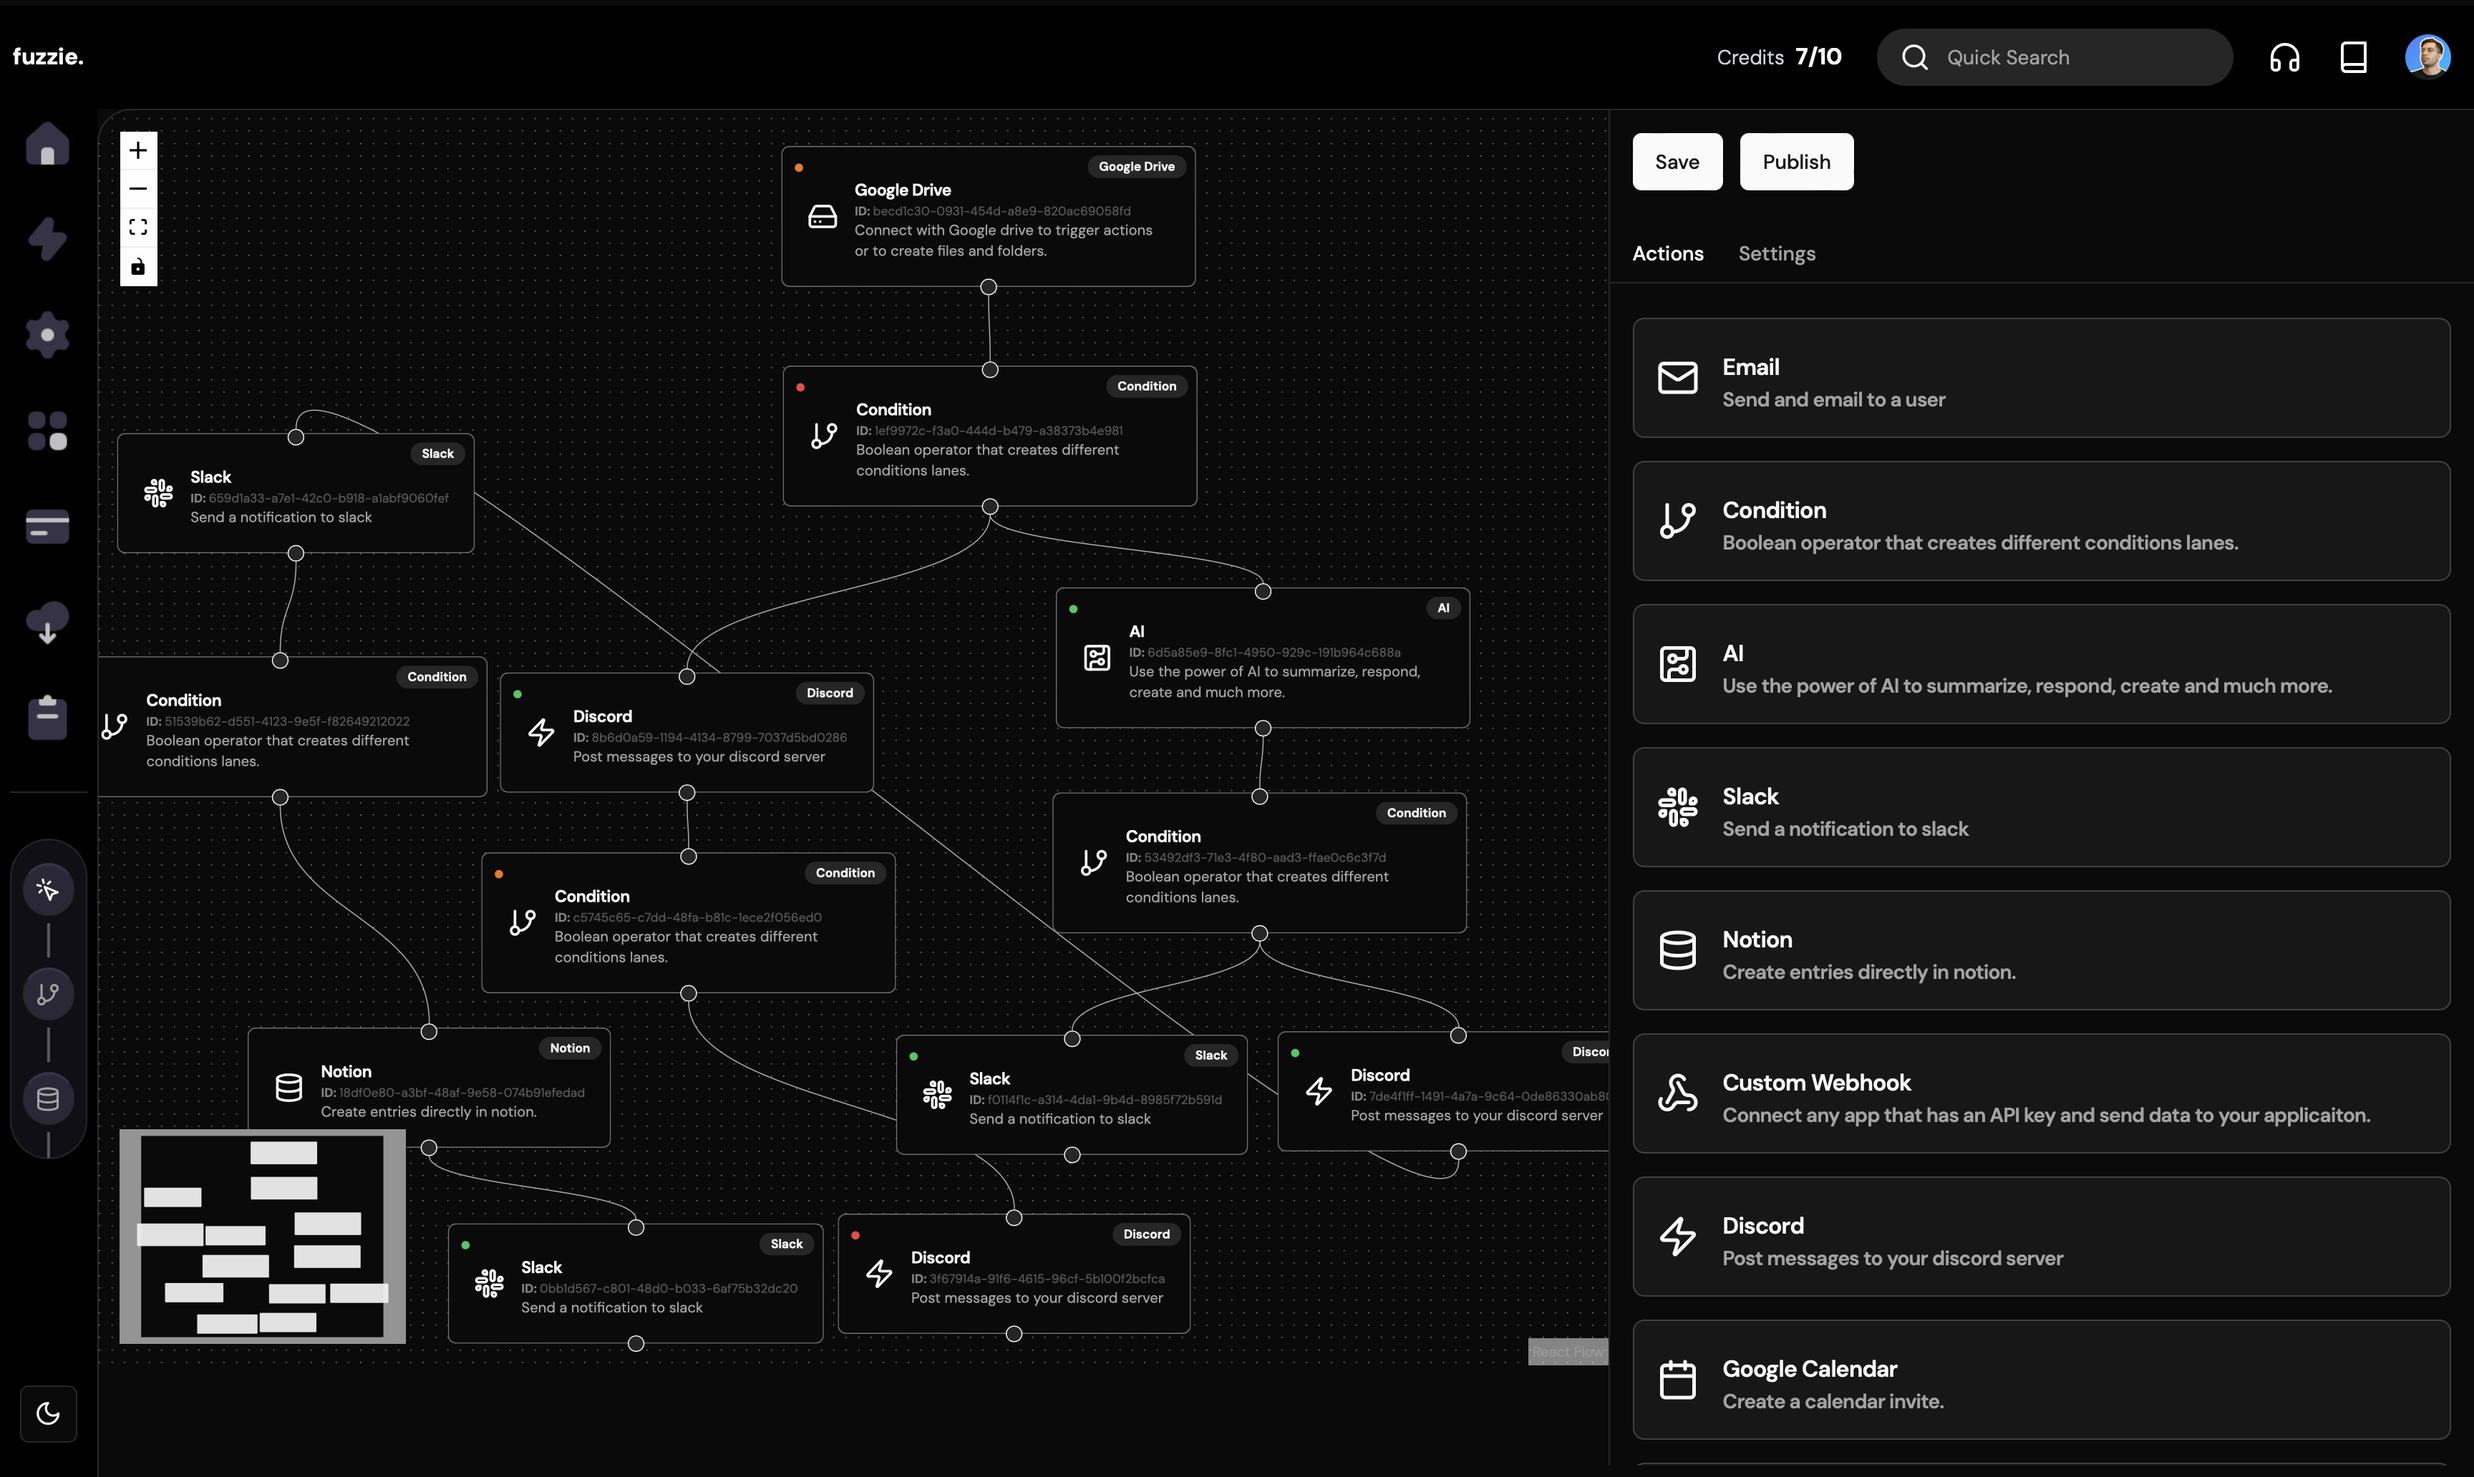
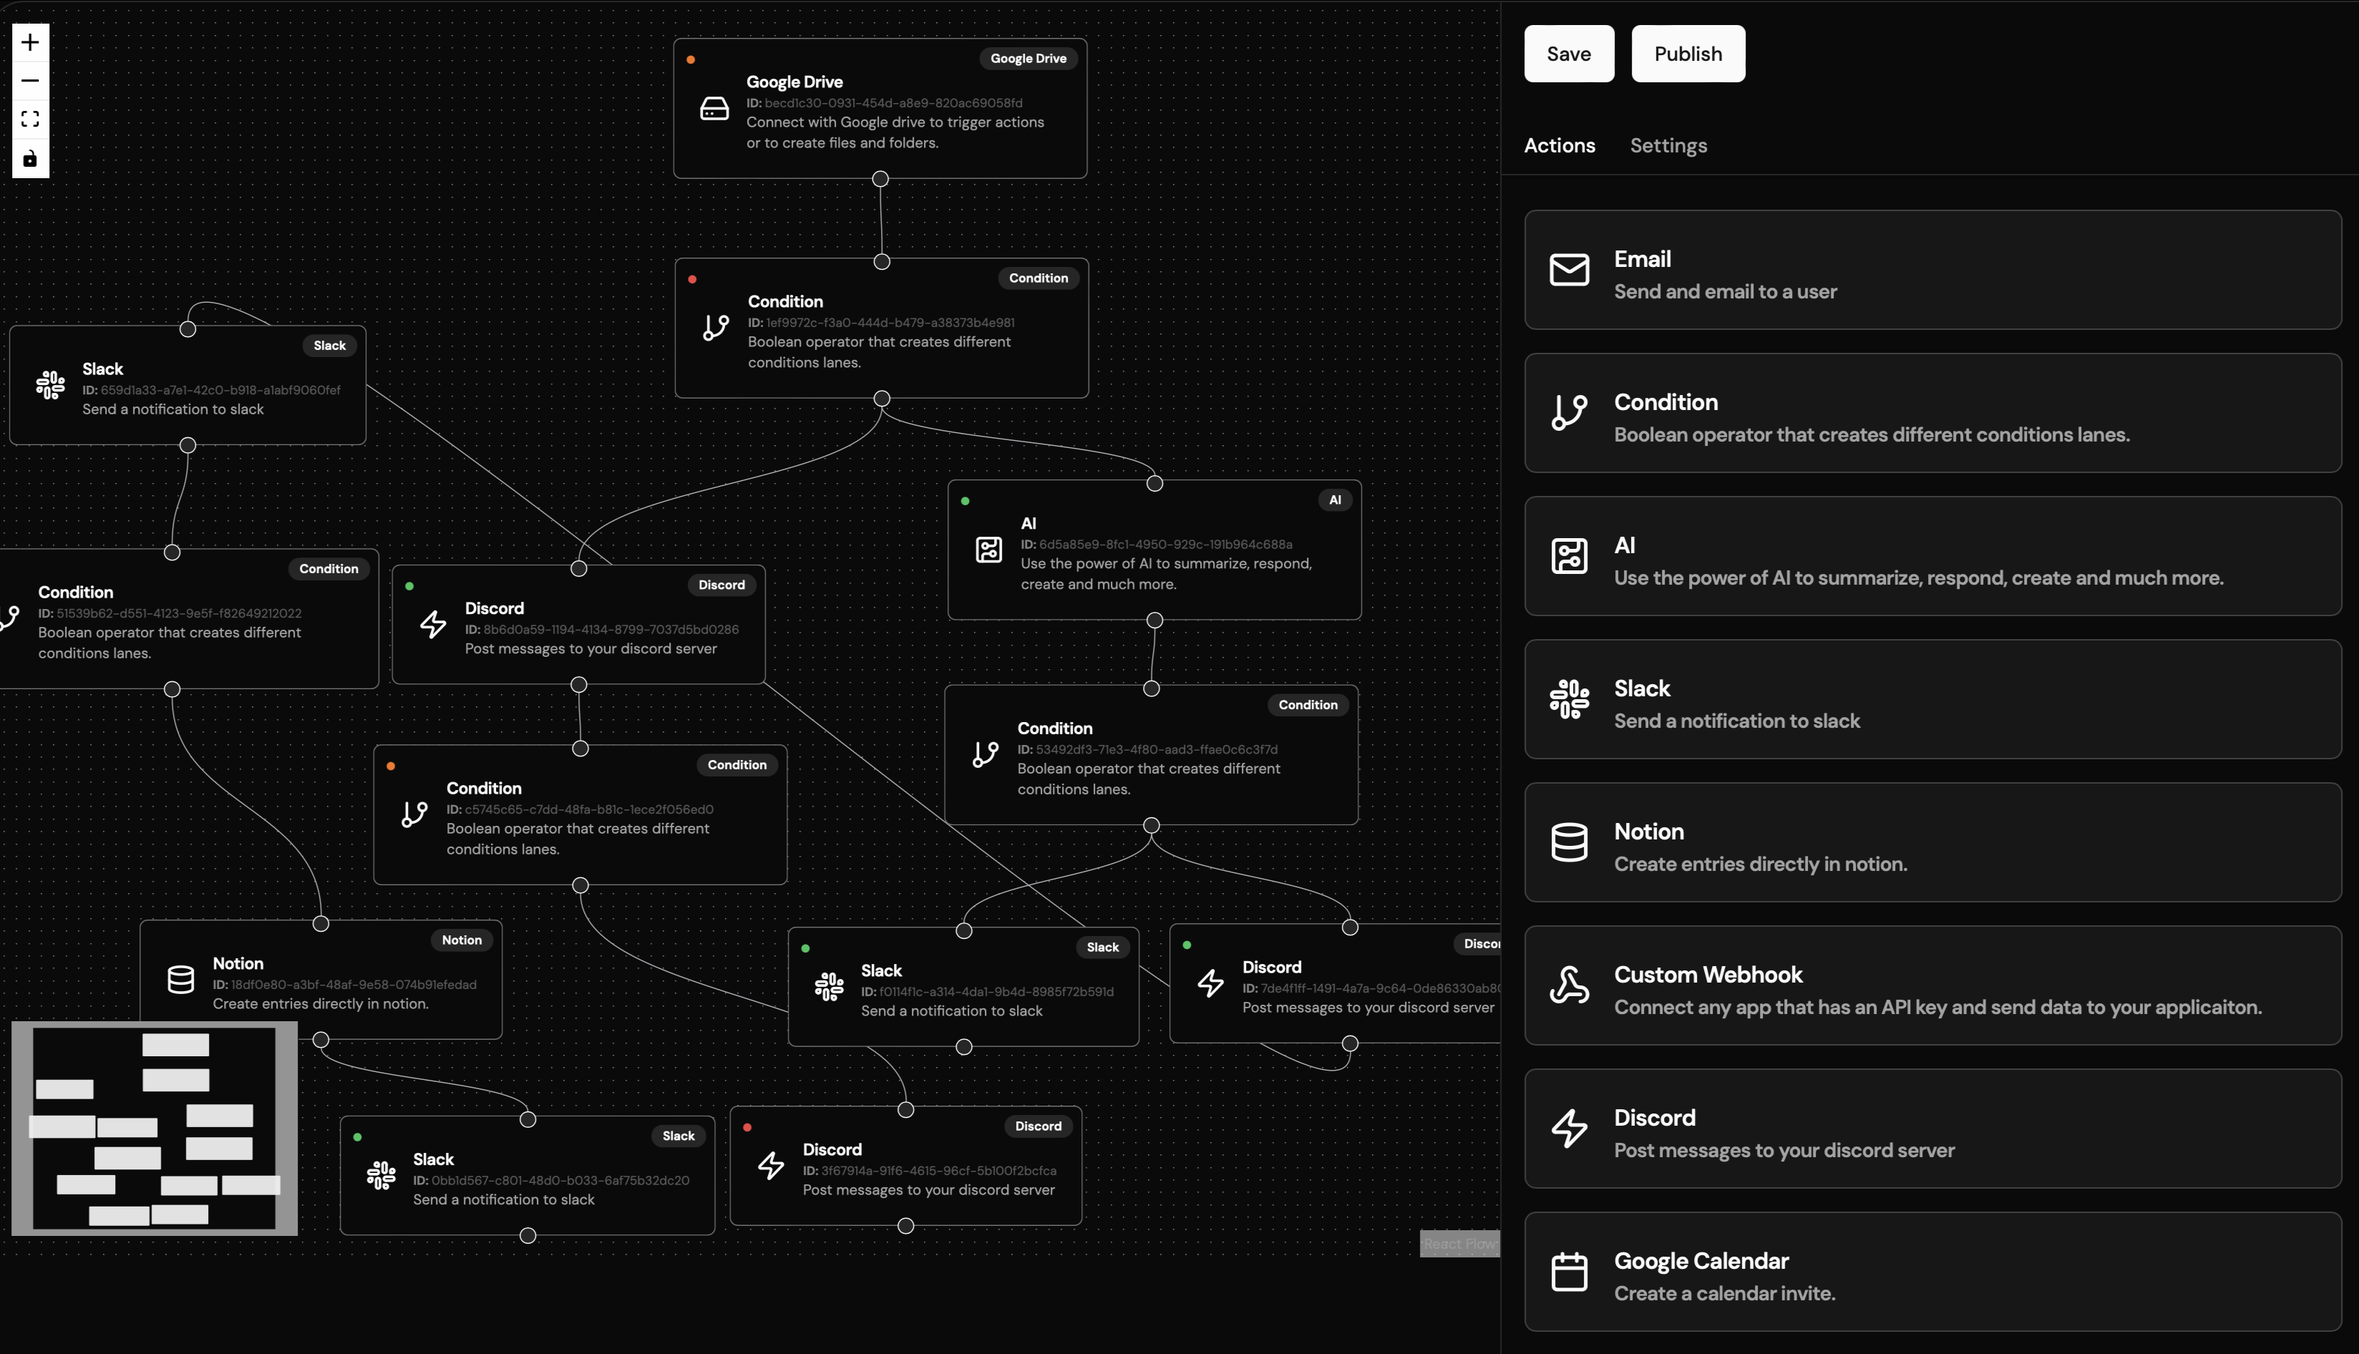
Final V3

diff --git a/src/app/page.tsx b/src/app/page.tsx
@@ -9,6 +9,7 @@ import { HeroParallax } from "@/components/global/connect-parallax";
 import { LampComponent } from "@/components/global/lamp";
 import { CardContainer, CardItem,CardBody } from "@/components/global/3d-card";
 import { WavyBackground } from "@/components/global/wavy-background";
+import Link from "next/link";
 export default function Home() {
   return (
     <main  >
@@ -28,29 +29,12 @@ export default function Home() {
                   className="p-8 mt-8 md:mb-0 text-2xl w-full sm:w-fit border-t-2 rounded-full border-[#4D4D4D] bg-[#1F1F1F] hover:bg-white group transition-all flex items-center justify-center gap-4 hover:shadow-xl hover:shadow-neutral-500 duration-500"
                 >
                   <span className="bg-clip-text text-transparent bg-gradient-to-r from-neutral-500 to-neutral-600  md:text-center font-sans group-hover:bg-gradient-to-r group-hover:from-black goup-hover:to-black">
-                    Start For Free Today
+                    <Link href="/workflows">Start For Free Today</Link>
                   </span>
                 </Button>
               </div>
     </WavyBackground>
 
-          {/* <ContainerScroll
-            titleComponent={
-              <div className="flex items-center justify-center flex-col">
-                <Button
-                  size={'lg'}
-                  className="p-8 mb-8 md:mb-0 text-2xl w-full sm:w-fit border-t-2 rounded-full border-[#4D4D4D] bg-[#1F1F1F] hover:bg-white group transition-all flex items-center justify-center gap-4 hover:shadow-xl hover:shadow-neutral-500 duration-500"
-                >
-                  <span className="bg-clip-text text-transparent bg-gradient-to-r from-neutral-500 to-neutral-600  md:text-center font-sans group-hover:bg-gradient-to-r group-hover:from-black goup-hover:to-black">
-                    Start For Free Today
-                  </span>
-                </Button>
-                <h1 className="text-5xl md:text-8xl  bg-clip-text text-transparent bg-gradient-to-b from-white to-neutral-600 font-sans font-bold">
-                  Automate Your Work With FlowState
-                </h1>
-              </div>
-            }
-          /> */}
         </div>
       </section>
 
@@ -65,7 +49,7 @@ export default function Home() {
         </section>    
         <section className="mt-[-500px]">
           <LampComponent />
-          <div className="flex flex-wrap items-center justify-center flex-col md:flex-row gap-8 -mt-72">
+          <div className="flex flex-wrap items-center justify-center flex-col md:flex-row gap-8 -mt-72 pb-20">
            <CardContainer  className="inter-var">
             <CardBody className="bg-gray-50 relative group/card dark:hover:shadow-2xl dark:hover:shadow-neutral-500/[0.1]
             dark:bg-black dark:border-white/[0.2] border-black/[0.1] w-full md: !w-[350px] h-auto rounded-xl p-6 border">
@@ -91,12 +75,12 @@ export default function Home() {
             <CardItem translateZ={20}
             as="button"
             className="px-4 py-2 rounded-xl text-xs font-normal dark:text-white">
-              Try now →
+             <Link href='/billing'> Try now →</Link>
             </CardItem>
             <CardItem translateZ={20}
             as="button"
             className="px-4 py-2 rounded-xl bg-black dark:bg-white dark:text-black text-white text-xs font-bold ">
-              Get Started Now
+              <Link href='/billing'>  Get Started Now </Link>
             </CardItem>
             </div>
             </CardBody>
@@ -126,12 +110,12 @@ export default function Home() {
             <CardItem translateZ={20}
             as="button"
             className="px-4 py-2 rounded-xl text-xs font-normal dark:text-white">
-              Try now →
+             <Link href='/billing'> Try now →</Link>
             </CardItem>
             <CardItem translateZ={20}
             as="button"
             className="px-4 py-2 rounded-xl bg-black dark:bg-white dark:text-black text-white text-xs font-bold ">
-              Get Started Now
+              <Link href='/billing'>  Get Started Now </Link>
             </CardItem>
             </div>
             </CardBody>
@@ -161,12 +145,12 @@ export default function Home() {
             <CardItem translateZ={20}
             as="button"
             className="px-4 py-2 rounded-xl text-xs font-normal dark:text-white">
-              Try now →
+             <Link href='/billing'> Try now →</Link>
             </CardItem>
             <CardItem translateZ={20}
             as="button"
             className="px-4 py-2 rounded-xl bg-black dark:bg-white dark:text-black text-white text-xs font-bold ">
-              Get Started Now
+              <Link href='/billing'>  Get Started Now </Link>
             </CardItem>
             </div>
             </CardBody>

diff --git a/src/lib/constant.tsx b/src/lib/constant.tsx
@@ -8,47 +8,57 @@ import Workflows from "@/components/icons/workflows"
 import { Connection } from "./types"
 
 
-export const clients = [...new Array(10)].map((client, index) => ({
-  href: `/${index + 1}.png`,
-}))
+export const clients =  [
+  "Effortlessly Connected",
+  "Seamlessly Integrated",
+  "Productivity Boosting",
+  "Streamlined Collaboration",
+  "Smart Automation",
+  "Task Mastery",
+  "Efficient Workflow",
+  "Unified Workspace",
+  "Instant Organization",
+  "Ultimate Efficiency",
+  "Simplified Management",
+  "Dynamic Integration"]
 
 export const products = [
   {
-    title: 'Moonbeam',
-    link: 'https://gomoonbeam.com',
-    thumbnail: '/p1.png',
+    title: 'Discord',
+    link: 'https://discord.com/',
+    thumbnail: '/DPara.png',
   },
   {
-    title: 'Cursor',
-    link: 'https://cursor.so',
-    thumbnail: '/p2.png',
+    title: 'Connections',
+    link: '/connections',
+    thumbnail: '/FCPara.png',
   },
   {
-    title: 'Rogue',
-    link: 'https://userogue.com',
-    thumbnail: '/p3.png',
-  },
-
-  {
-    title: 'Editorially',
-    link: 'https://editorially.org',
-    thumbnail: '/p4.png',
-  },
-  {
-    title: 'Editrix AI',
-    link: 'https://editrix.ai',
-    thumbnail: '/p5.png',
-  },
-  {
-    title: 'Pixel Perfect',
-    link: 'https://app.pixelperfect.quest',
-    thumbnail: '/p6.png',
+    title: 'Notion',
+    link: 'https://www.notion.so',
+    thumbnail: '/NPara.png',
   },
 
   {
-    title: 'Algochurn',
-    link: 'https://algochurn.com',
-    thumbnail: '/p1.png',
+    title: 'Editor Canvas',
+    link: '/workflows/editor',
+    thumbnail: '/temp-banner.png',
+  },
+  {
+    title: 'Slack',
+    link: 'https://app.slack.com',
+    thumbnail: '/SPara.png',
+  },
+  {
+    title: 'Workflows',
+    link: '/workflow',
+    thumbnail: '/FWPara.png',
+  },
+
+  {
+    title: 'Billing',
+    link: '/billing',
+    thumbnail: '/FBPara.png',
   },
   {
     title: 'Aceternity UI',
@@ -56,40 +66,41 @@ export const products = [
     thumbnail: '/p2.png',
   },
   {
-    title: 'Tailwind Master Kit',
-    link: 'https://tailwindmasterkit.com',
-    thumbnail: '/p3.png',
+    title: 'Discord',
+    link: 'https://discord.com/',
+    thumbnail: '/DPara.png',
   },
   {
-    title: 'SmartBridge',
-    link: 'https://smartbridgetech.com',
-    thumbnail: '/p4.png',
+    title: 'Connections',
+    link: '/connections',
+    thumbnail: '/FCPara.png',
   },
   {
-    title: 'Renderwork Studio',
-    link: 'https://renderwork.studio',
-    thumbnail: '/p5.png',
+    title: 'Notion',
+    link: 'https://www.notion.so',
+    thumbnail: '/NPara.png',
   },
 
   {
-    title: 'Creme Digital',
-    link: 'https://cremedigital.com',
-    thumbnail: '/p6.png',
+    title: 'Editor Canvas',
+    link: '/workflows/editor',
+    thumbnail: '/temp-banner.png',
   },
   {
-    title: 'Golden Bells Academy',
-    link: 'https://goldenbellsacademy.com',
-    thumbnail: '/p1.png',
+    title: 'Slack',
+    link: 'https://app.slack.com',
+    thumbnail: '/SPara.png',
   },
   {
-    title: 'Invoker Labs',
-    link: 'https://invoker.lol',
-    thumbnail: '/p2.png',
+    title: 'Workflows',
+    link: '/workflow',
+    thumbnail: '/FWPara.png',
   },
+
   {
-    title: 'E Free Invoice',
-    link: 'https://efreeinvoice.com',
-    thumbnail: '/p3.png',
+    title: 'Billing',
+    link: '/billing',
+    thumbnail: '/FBPara.png',
   },
 ]
 

diff --git a/src/components/global/connect-parallax.tsx b/src/components/global/connect-parallax.tsx
@@ -105,12 +105,10 @@ export const Header = () => {
   return (
     <div className="max-w-7xl relative mx-auto py-20 md:py-40 px-4 w-full  left-0 top-0">
       <h1 className="text-2xl md:text-7xl font-bold dark:text-white">
-        The Ultimate <br /> development studio
+        Automated Harmony<br />brought to your workflow
       </h1>
       <p className="max-w-2xl text-base md:text-xl mt-8 dark:text-neutral-200">
-        We build beautiful products with the latest technologies and frameworks.
-        We are a team of passionate developers and designers that love to build
-        amazing products.
+      Experience the power of seamless automation with Flow State. Integrate Slack, Discord, Notion, and Google Drive effortlessly to enhance productivity, streamline tasks, and achieve unparalleled efficiency in your workflow.
       </p>
     </div>
   )

diff --git a/src/components/infobar/index.tsx b/src/components/infobar/index.tsx
@@ -37,14 +37,14 @@ const InfoBar = (props: Props) => {
           </span>
         )}
       </span>
-      <span className="flex items-center rounded-full bg-muted px-4">
+      {/* <span className="flex items-center rounded-full bg-muted px-4">
         <Search />
         <Input
           placeholder="Quick Search"
           className="border-none bg-transparent"
         />
-      </span>
-        <TooltipProvider>
+      </span> */}
+        {/* <TooltipProvider>
             <Tooltip delayDuration={0}>
                 <TooltipTrigger>
                     <Headphones/>
@@ -63,7 +63,7 @@ const InfoBar = (props: Props) => {
                     <p>Guide</p>
                 </TooltipContent>
             </Tooltip>
-        </TooltipProvider>
+        </TooltipProvider> */}
         <UserButton />
         
     </div>

diff --git a/src/app/(main)/(pages)/dashboard/page.tsx b/src/app/(main)/(pages)/dashboard/page.tsx
@@ -1,13 +1,17 @@
+'use server'
 import React from 'react'
 
+ 
+import { redirect } from 'next/navigation'
 const DashboardPage = () => {
-  return (
-    <div className="flex flex-col gap-4 relative">
-      <h1 className="text-4xl sticky top-0 z-[10] p-6 bg-background/50 backdrop-blur-lg flex items-center border-b">
-        Dashboard
-      </h1>
-    </div>
-  )
+  // return (
+  //   <div className="flex flex-col gap-4 relative">
+  //     <h1 className="text-4xl sticky top-0 z-[10] p-6 bg-background/50 backdrop-blur-lg flex items-center border-b">
+  //       Dashboard
+  //     </h1>
+  //   </div>
+  // )
+  redirect('/workflows')
 }
 
 export default DashboardPage

diff --git a/src/components/global/infinite-moving-cards.tsx b/src/components/global/infinite-moving-cards.tsx
@@ -11,9 +11,7 @@ export const InfiniteMovingCards = ({
   pauseOnHover = true,
   className,
 }: {
-  items: {
-    href: string
-  }[]
+  items:string[]
   direction?: 'left' | 'right'
   speed?: 'fast' | 'normal' | 'slow'
   pauseOnHover?: boolean
@@ -87,14 +85,7 @@ export const InfiniteMovingCards = ({
         )}
       >
         {items.map((item, idx) => (
-          <Image
-            width={170}
-            height={1}
-            src={item.href}
-            alt={item.href}
-            className=" relative rounded-2xl  object-contain opacity-50"
-            key={item.href}
-          />
+         <p>{item}</p>
         ))}
       </ul>
     </div>
